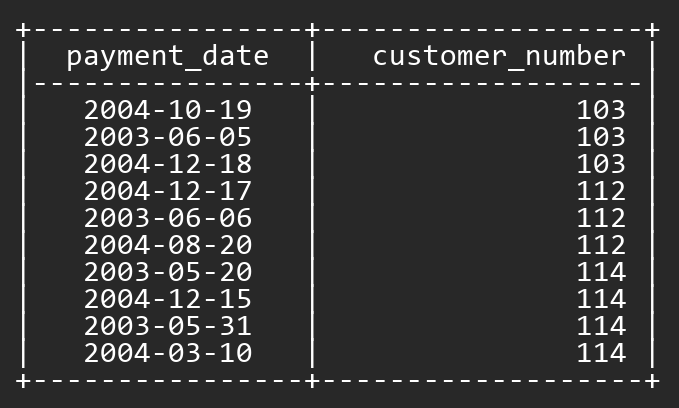
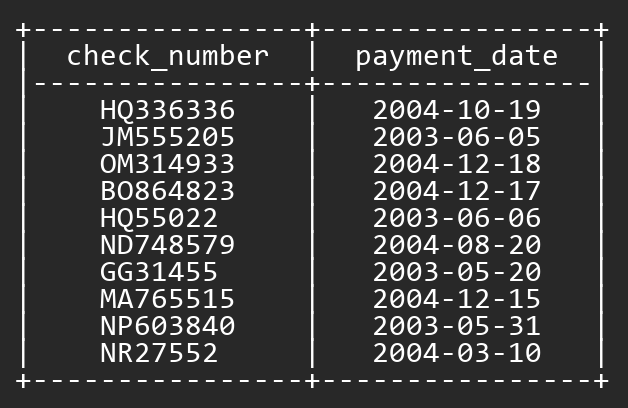
exercise 12 fixed

diff --git a/scripts/exercise_queries.py b/scripts/exercise_queries.py
@@ -132,9 +132,9 @@ def get_exercise_12():
     from django.db.models import F
 
     query = Payment.objects.all()
-    query = query.annotate(customer_number=F('customer__customer_number'))
+    # query = query.annotate(customer_number=F('check_number'))
     query = query[0:10]
-    query = query.values('customer_number', 'payment_date')
+    query = query.values('check_number', 'payment_date')
     df = DataFrame(data=query)
     return df
 
@@ -682,7 +682,7 @@ def get_exercise_44():
 
 if __name__ == '__main__':
 
-    for idx in [44]:
+    for idx in [12]:
         # for idx in range(1,45):
         func = eval(f'get_exercise_{idx}')
         df = func()

diff --git a/scripts/image_sample_generator.py b/scripts/image_sample_generator.py
@@ -9,7 +9,8 @@ import exercise_queries as eq
 set_option('display.max_columns', 1000)
 set_option('display.width', 2000)
 
-for idx in range(1,45):
+# for idx in range(1,45):
+for idx in [12]:
     func = getattr( eq, f'get_exercise_{idx}' )
     df = func()
     

diff --git a/README.md b/README.md
@@ -307,9 +307,9 @@ df = DataFrame(data=query)
 from django.db.models import F
 
 query = Payment.objects.all()
-query = query.annotate(customer_number=F('customer__customer_number'))
+# query = query.annotate(customer_number=F('check_number'))
 query = query[0:10]
-query = query.values('customer_number', 'payment_date')
+query = query.values('check_number', 'payment_date')
 df = DataFrame(data=query)
 ```
 </details>
